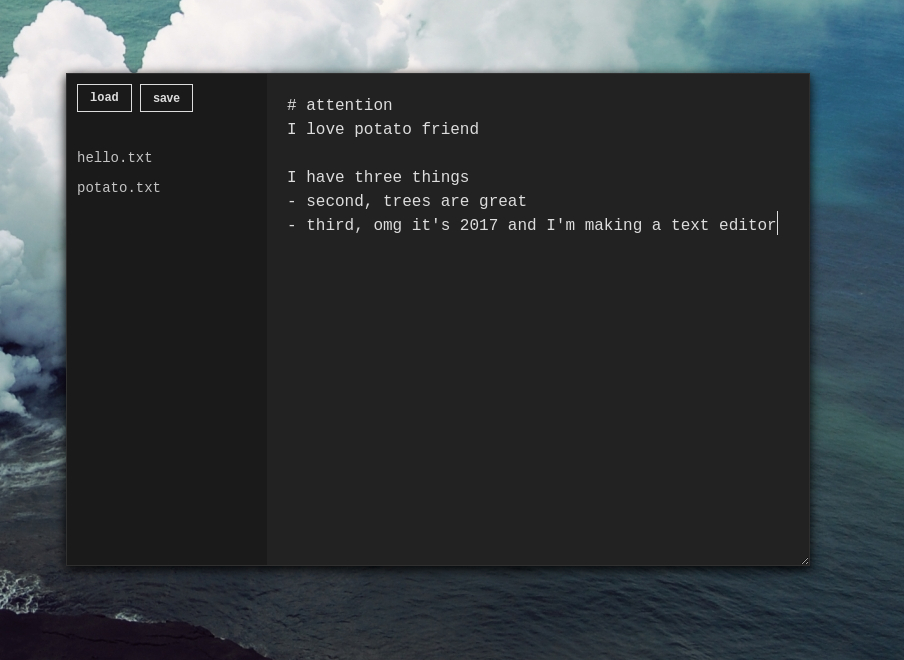
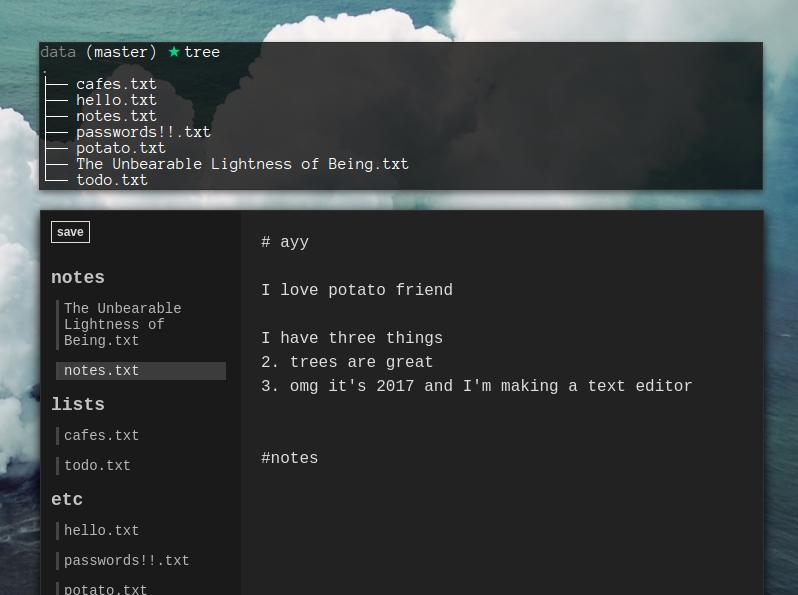
update screenshot

diff --git a/readme.md b/readme.md
@@ -1,6 +1,10 @@
 ![screenshot of text editor](evidence/screenshot.jpg)
 
+My desktop UI is super confusing, but the top window lists the directory contents, and the second window is the app, which sorts the files in the directory by tags.
+
 txt + markdown + tagging
+
+_work in progress_
 
 install: `npm i`
 
